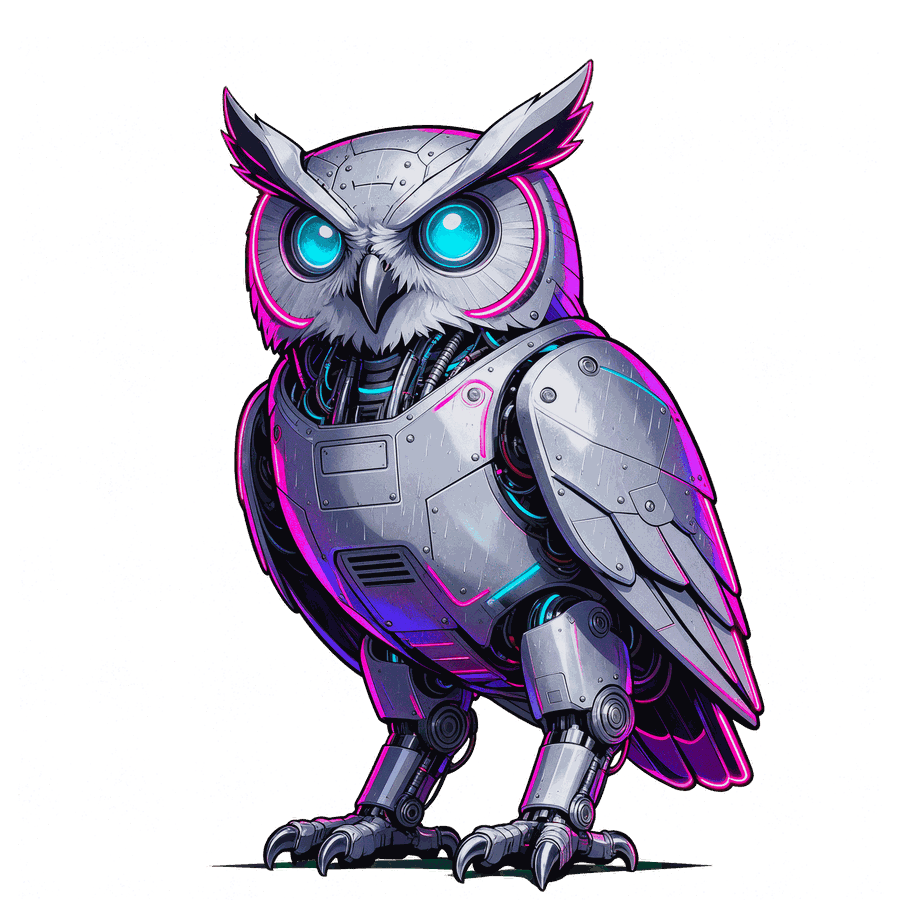
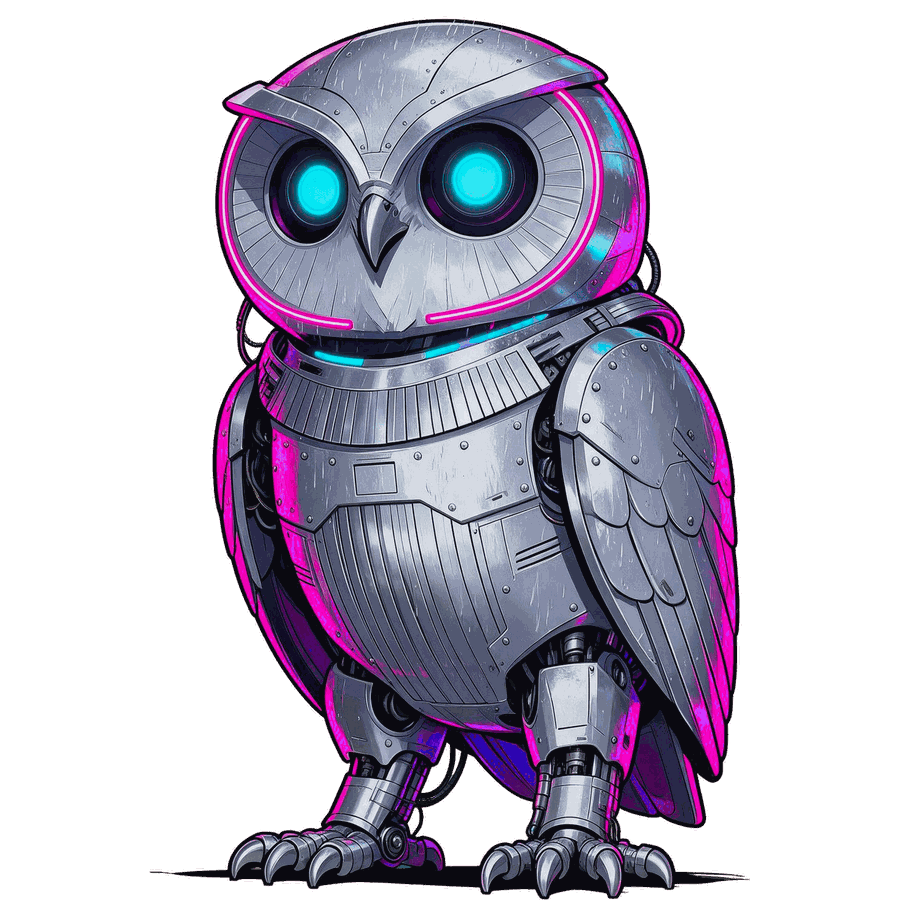
The barred-owl robot stands over the neon street (OP-112)
The market's robot owl is now built as a barred owl (seed 1502 of four:
its glowing cyan lenses and magenta facial rim read like the old robot
from across the street), picked by Claude Code under Logan's standing art
approval. Finished like the robot before it: chroma-keyed, 900 x 900 at
1x, 256 colours (196 KB).

The copy game's singing eyes and the note beside its head are now points
in the robot's own pixels, mapped through the sprite as it is drawn, so
they sit on its lenses however the sprite is placed, scaled or bobbing.

Claude-Session: https://claude.ai/code/session_01GwxsLoM2md4sGXGmm1SY7i

diff --git a/apps/park/src/game/activities.ts b/apps/park/src/game/activities.ts
@@ -34,6 +34,7 @@ import { ANCHORS } from '../rooms';
 import type { CopyView, QuizView } from '../ui/activities';
 import type { Hud } from '../ui/hud';
 import { FishingLine } from './Fishing';
+import { ART } from './art';
 import { LanternGlows } from './Lanterns';
 import type { Owl } from './Owl';
 import { QuizPlates } from './QuizStage';
@@ -52,6 +53,8 @@ export interface ActivityHost {
   tasks: TaskState;
   /** The robot owl's big reaction (the market's idol). */
   cheer(): void;
+  /** The robot owl's sprite (the market's idol), for its eyes to sing from; null until it is placed. */
+  robot(): Phaser.GameObjects.Image | null;
 }
 
 /** Something to do where the owl stands (the room scene shows a button, and E runs the first). */
@@ -69,14 +72,26 @@ const GONE_AFTER_MS = 900;
 const TASKS_RETRY_MS = 5_000;
 /** Never wait longer than this for the park day to turn (timers past ~24 days overflow). */
 const MAX_TIMER_MS = 6 * 60 * 60 * 1000;
-/** The robot owl's eyes (offsets from its anchor, on the painting's eyes), and a colour for each note it uses. */
+/**
+ * The robot owl's eye lenses, and where a sung note sets off beside its head, in its sprite's own
+ * pixels (robot-owl.png, 900 x 900): measured from the art, so they follow the sprite however it is
+ * placed, scaled or bobbing, and a new robot needs only new points here.
+ */
 const ROBOT_EYES: readonly Vec2[] = [
-  { x: -38, y: -368 },
-  { x: 18, y: -368 },
+  { x: 318, y: 190 },
+  { x: 477, y: 179 },
 ];
+const ROBOT_NOTE: Vec2 = { x: 660, y: 180 };
+/** And a colour for each note the tune uses. */
 const NOTE_TINTS = [0x00e5ff, 0xff2aa1, 0xffd36a, 0x8fe3a8];
 
 const feathersText = (n: number) => `+${n} feather${n === 1 ? '' : 's'}`;
+
+/** A point in a sprite's own pixels (`frame` its logical size), in room pixels where the sprite is drawn right now. */
+function spritePoint(img: Phaser.GameObjects.Image, frame: { w: number; h: number }, p: Vec2): Vec2 {
+  const sx = (img.displayWidth / frame.w) * (img.flipX ? -1 : 1);
+  return { x: img.x + (p.x - img.originX * frame.w) * sx, y: img.y + (p.y - img.originY * frame.h) * (img.displayHeight / frame.h) };
+}
 
 /** The robot owl sings each note of its tune with its eyes, and a note drifts up beside its head. */
 class RobotSong {
@@ -84,18 +99,24 @@ class RobotSong {
 
   constructor(
     private readonly scene: Phaser.Scene,
-    private readonly at: Vec2,
+    private readonly robot: () => Phaser.GameObjects.Image | null,
   ) {
-    this.eyes = ROBOT_EYES.map((o) => scene.add.image(at.x + o.x, at.y + o.y, 'fx-glow').setScale(0.22).setAlpha(0).setBlendMode(Phaser.BlendModes.ADD).setDepth(at.y + 1));
+    this.eyes = ROBOT_EYES.map(() => scene.add.image(0, 0, 'fx-glow').setScale(0.22).setAlpha(0).setBlendMode(Phaser.BlendModes.ADD));
   }
 
   note(tint: number): void {
-    for (const eye of this.eyes) {
+    const robot = this.robot();
+    const frame = ART['robot-owl'];
+    if (!robot || !frame) return;
+    ROBOT_EYES.forEach((p, i) => {
+      const eye = this.eyes[i]!;
+      const at = spritePoint(robot, frame, p);
       this.scene.tweens.killTweensOf(eye);
-      eye.setTint(tint).setAlpha(0.95);
+      eye.setPosition(at.x, at.y).setDepth(robot.depth + 1).setTint(tint).setAlpha(0.95);
       this.scene.tweens.add({ targets: eye, alpha: 0, duration: COPY_NOTE_MS * 0.8, ease: 'Quad.easeIn' });
-    }
-    const n = this.scene.add.image(this.at.x + 90, this.at.y - 380, symbolTexture(this.scene, 'note')).setTint(tint).setScale(0.9).setDepth(this.at.y + 2);
+    });
+    const from = spritePoint(robot, frame, ROBOT_NOTE);
+    const n = this.scene.add.image(from.x, from.y, symbolTexture(this.scene, 'note')).setTint(tint).setScale(0.9).setDepth(robot.depth + 2);
     this.scene.tweens.add({ targets: n, y: n.y - 70, x: n.x + 24, alpha: 0, duration: 1100, ease: 'Sine.easeOut', onComplete: () => n.destroy() });
   }
 
@@ -140,8 +161,7 @@ export class ActivityLayer {
     this.lanterns = room === LANTERN_ROOM ? new LanternGlows(scene) : null;
     this.quiz = room === QUIZ_ROOM ? new QuizPlates(scene) : null;
     this.fishing = room === FISHING_ROOM ? new FishingLine(scene) : null;
-    const robot = ANCHORS[room]?.['robot'];
-    this.robot = room === COPY_ROOM && robot ? new RobotSong(scene, robot) : null;
+    this.robot = room === COPY_ROOM && ANCHORS[room]?.['robot'] ? new RobotSong(scene, () => host.robot()) : null;
     host.hud.onCopy((note) => (note === null ? this.stopCopy() : void this.playNote(note)));
   }
 

diff --git a/apps/park/src/game/RoomScene.ts b/apps/park/src/game/RoomScene.ts
@@ -409,6 +409,7 @@ export class RoomScene extends Phaser.Scene {
       feathers: (total) => this.collection.setFeathers(total),
       tasks: this.tasks,
       cheer: () => this.pieces.idol?.react(),
+      robot: () => this.pieces.idol?.image ?? null,
     });
 
     this.setupCamera();
